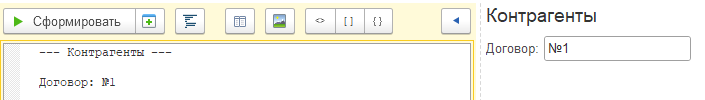
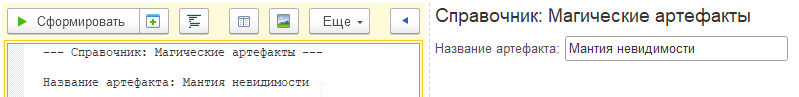
Обновлен быстрый старт

Changed region(s): [[0.0, 0.0309, 0.9986, 1.0]]

diff --git a/docs/БыстрыйСтарт.md b/docs/БыстрыйСтарт.md
@@ -14,76 +14,70 @@
 
 ## Пример использования
 
-Начните с указания заголовка формы, введите следующий текст в редакторе, затем нажмите ![Сформировать](./_images/execute-icon.png)**Сформировать**:
+ - Начните с указания заголовка формы, введите следующий текст в редакторе, затем нажмите ![Сформировать](./_images/execute-icon.png)**Сформировать**:
 
 ```text
---- Контрагенты ---
+--- Справочник: Магические артефакты ---
 ```
 
 <kbd> ![alt text](./_images/quick-start-header.png) </kbd> 
 
 
-Попробуйте добавить поле ввода, добавив текст на следующую строку:
+- Попробуйте добавить поле ввода. Заголовок поля ввода отделяется от значения символом `:`. Добавив текст на следующую строку:
 
 ```text
-Наименование: ООО Типы
+Название артефакта: Мантия невидимости
 ```
 
 <kbd> ![alt text](./_images/quick-start-doc-1.png) </kbd> 
 
-Заголовок поля ввода отделяется от значения символом `:`.
 
-К полю ввода можно добавить кнопки, например, `С` — кнопка списка, `Х` — очистка, они добавляются через `__`.
+ - К полю ввода можно добавить кнопки, например, `С` — кнопка списка, `Х` — очистка, они добавляются через `__`.
 
 ```text
-Наименование: ООО Типы
-Основной договор: №1__СХ
+Последний хранитель: Владыка Всех Земель__СХ
 ```
 
 <kbd> ![alt text](./_images/quick-start-doc-2.png) </kbd> 
 
-
-Менять значение для поля ввода можно сразу в результате, например, поменяйте значение поля ввода на "№1 от 07.02.2025" и нажмите ![Заполнить из формы](./_images/form-to-text-icon.png)**Заполнить из формы**. Это будет особенно полезно для работы с таблицами.
+- Менять значение для поля ввода можно сразу в результате, например, поменяйте значение поля ввода другое значение, например, "Гоблин-пройдоха" и нажмите ![Заполнить из формы](./_images/form-to-text-icon.png)**Заполнить из формы**. Это будет особенно полезно для работы с таблицами.
 
 <kbd> ![alt text](./_images/quick-start-doc-3.gif) </kbd> 
 
-Таблицы в "Накидке" выглядят так: 
+- Добавьте таблицу. Нажмите на кнопку ![Редактор таблицы](./_images/table-editor-icon.png)**Редактор таблицы** и в окне введите две строки с заголовками "Побочный эффект" и "Процент". Нажмите "OK" и сформируйте форму.
 
-```text
-| Дата       | Сумма |
-| ---------- | ----- |
-| 01.01.2025 | 100   |
-| 02.01.2025 | 150   |
-```
-
-Нажмите на кнопку Редактор таблицы и в окне введите две строки с заголовками "Дата" и "Сумма". Нажмите "OK" и сформируйте форму.
-
-В правой части окна появится таблица, добавьте в нее пару строк. Нажмите кнопку ![Заполнить из формы](./_images/form-to-text-icon.png)**Заполнить из формы**.
+- В правой части окна появится таблица, добавьте в нее пару-тройку строк. Нажмите кнопку ![Заполнить из формы](./_images/form-to-text-icon.png)**Заполнить из формы**.
 
 <kbd> ![Ожидаемый результат](./_images/quick-start-result.png) </kbd> 
 
-Что еще можно сделать:
+- Поздравляем, первый прототип готов!
 
-Добавляйте флажки, используя квадратные скобки `[]`
-```text
-[] Это покупатель
+## Что можно сделать еще
+
+- Добавляйте кнопки, используя квадратные скобки `<>` и разделяя кнопки символом `|`.
+ ```text
+< Внести в свиток заклинаний | Закрыть >
 ```
 
-Используйте `#` описания заголовков групп, а `+` для разделения их содержимого:
+- Добавляйте флажки, используя квадратные скобки `[]`
 ```text
-#Информация о контрагенте   #Основной договор
-Наименование: ООО Типы      +   Договор: №1__СХ
-ИНН: 736881427170           +   [X] Это покупатель
+[] Привлекает кошек
 ```
 
-Распределяйте содержание формы по страницам (не забывайте нажимать Tab на клавиатуре, чтобы отделять содержимое групп):
+- Используйте `#` описания заголовков групп, а `+` для разделения их содержимого:
 ```text
-/Информация о контрагенте
-	Наименование: ООО Типы
-	ИНН: 736881427170
+#Важные характеристики   #Ключевые характеристики
+[ ] Призывает дождь      + [X] Меняет цвет
+[ ] Говорит              + [ ] Требует подзарядки
 
-/Основной договор
-	Договор: №1__СХ
+```
+
+- Распределяйте содержание формы по страницам (не забывайте нажимать Tab на клавиатуре, чтобы отделять содержимое групп):
+```text
+/Рецепт грибного пирога
+	Далее идет описание вкусного грибного пирога
+/Страница, которую не следует открывать смертным
+	< Вы попались >
 ```
 
 Подробное описание каждого элемента вы можете найти в разделе **Синтаксис**.

diff --git a/docs/Кнопки.md b/docs/Кнопки.md
@@ -3,9 +3,7 @@
 ## Командная панель
 ```text
 {ИмяСвойства = ЗначенияСвойства}
-<Кнопка 1| Кнопка 2 {ИмяСвойстваКнопки = ЗначениеСвойстваКнопки} | - | Меню
-Меню
-.Подменю>
+< Кнопка 1| Кнопка 2 {ИмяСвойстваКнопки = ЗначениеСвойстваКнопки} >
 ```
 Добавляет кнопки (командную панель) на форму.
 
